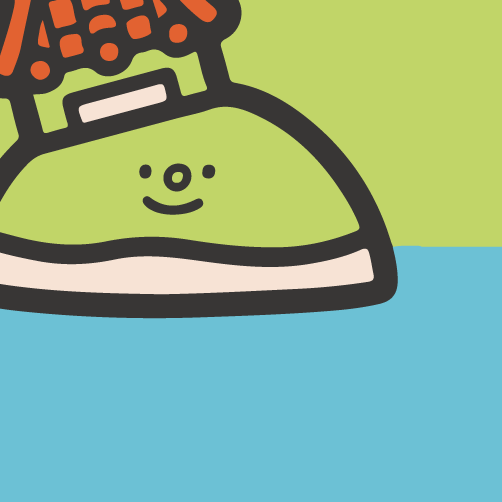
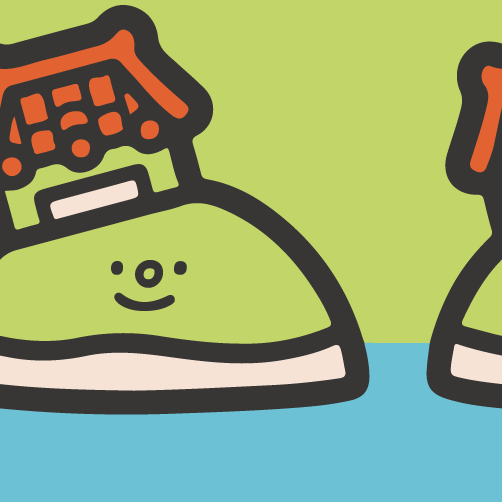
a

diff --git a/index.html b/index.html
@@ -44,7 +44,7 @@
 
                 <a-entity
                 geometry="primitive:sphere;"
-                radius="5"
+                radius="10"
                 material="src:url(marusphere.png)"
                 look-at="[gps-camera]"
                 gps-entity-place="latitude:24.33769748149587; longitude:124.1656353944175;"
